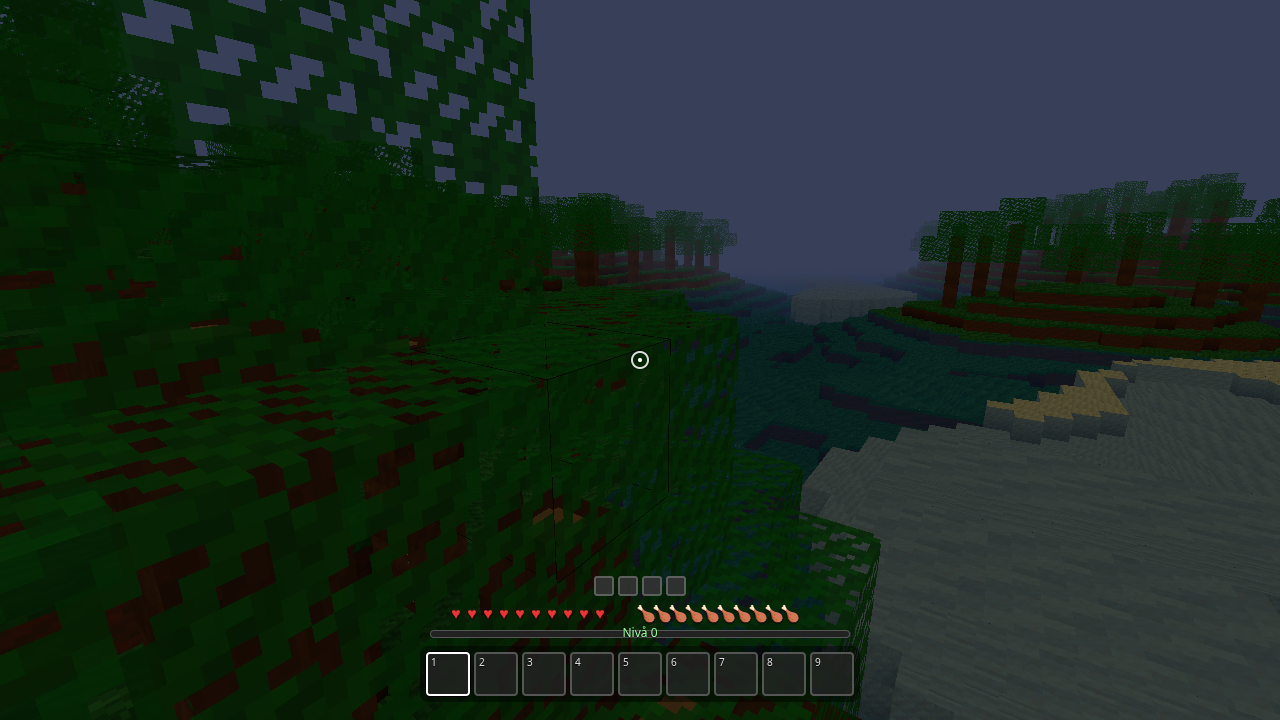
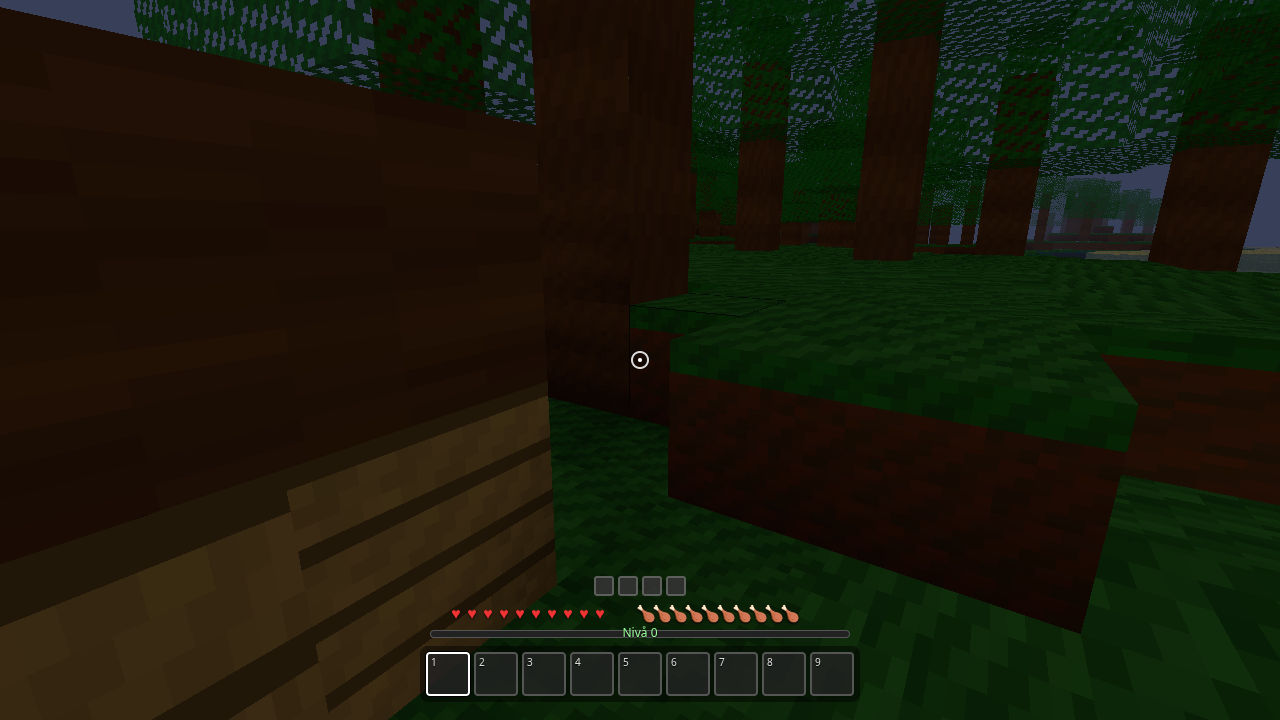
it16: in-block view overlay (MC), S3 suffocation verify, core I2 fixed (wrong mob kind names)

diff --git a/src/main.ts b/src/main.ts
@@ -1,5 +1,6 @@
 import './style.css';
-import { BlockId, isSolid } from './blocks/types';
+import { BlockId, isSolid, BLOCKS } from './blocks/types';
+import { createAtlasCanvas, tileUV, ATLAS_W, ATLAS_H } from './blocks/textures';
 import { Inventory } from './items/inventory';
 import { updateGravityAround } from './world/gravity';
 import { LeafDecay, LEAF_PERSISTENT } from './world/leafdecay';
@@ -202,6 +203,32 @@ async function runGame(
   const doSave = () => saveWorldNamed(worldName, world, player, inv, drops, containers, dayTime, respawn, xp.toJSON(), structuresToJSON());
   const leafDecay = new LeafDecay();
   let suffocateAcc = 0;
+  // MC: with your head inside a block you see that block's texture (darkened), not through the world
+  const inBlockOverlay = document.createElement('div');
+  inBlockOverlay.id = 'in-block-overlay';
+  inBlockOverlay.style.cssText = 'position:fixed;inset:0;pointer-events:none;z-index:5;display:none;image-rendering:pixelated;background-size:25vmin 25vmin;filter:brightness(0.3);';
+  document.body.appendChild(inBlockOverlay);
+  const inBlockUrls = new Map<number, string>();
+  let inBlockAtlas: HTMLCanvasElement | null = null;
+  let inBlockShown = -1;
+  const updateInBlockOverlay = () => {
+    const id = headInSolid(world, player.x, player.y, player.z)
+      ? world.getBlock(Math.floor(player.x), Math.floor(player.y + EYE_HEIGHT), Math.floor(player.z)) : -1;
+    if (id === inBlockShown) return;
+    inBlockShown = id;
+    if (id < 0) { inBlockOverlay.style.display = 'none'; return; }
+    let url = inBlockUrls.get(id);
+    if (!url) {
+      inBlockAtlas ??= createAtlasCanvas();
+      const uv = tileUV(BLOCKS[id]?.tiles.side ?? 0);
+      const c = document.createElement('canvas'); c.width = 16; c.height = 16;
+      c.getContext('2d')!.drawImage(inBlockAtlas, uv.u0 * ATLAS_W, uv.v0 * ATLAS_H, 16, 16, 0, 0, 16, 16);
+      url = c.toDataURL();
+      inBlockUrls.set(id, url);
+    }
+    inBlockOverlay.style.backgroundImage = `url(${url})`;
+    inBlockOverlay.style.display = 'block';
+  };
   const markMesh = () => { meshesDirty = true; renderer.markChunksDirty(); };
   // MC explosions: containers spill, chunks remesh, smoke puff
   mobs.takeContainer = (x, y, z) => { const c = containers.contentsAt(x, y, z); containers.removeAt(x, y, z); return c; };
@@ -1060,6 +1087,7 @@ async function runGame(
         suffocateAcc += dt;
         if (suffocateAcc >= 0.5) { suffocateAcc -= 0.5; hurtPlayer(1, 0, 0, true); }
       } else suffocateAcc = 0;
+      updateInBlockOverlay();
       boats.update(dt, world, player, wishX, wishZ, !!input.forward);
 
       if (player.onGround && (wishX || wishZ) && !boats.mounted) {

diff --git a/scripts/it16-verify.ts b/scripts/it16-verify.ts
@@ -358,6 +358,43 @@ async function main() {
     record('S2-placed-sand-falls', v.at49 === 0 && v.at46 === 8 && v.left === 4 ? 'PASS' : 'FAIL', JSON.stringify(v));
   }
 
+  // S3 — dig the dirt over your head with 2 sand on it (real LMB): sand buries you, you suffocate, dig out (real LMB)
+  if (run('S3')) {
+    mark('S3');
+    await page.evaluate(() => {
+      const bv = (window as any).__bv;
+      bv.world.setBlock(15, 48, 15, 2); bv.world.setBlock(15, 49, 15, 8); bv.world.setBlock(15, 50, 15, 8);
+      bv.player.health = 20; bv.forceRemeshAround?.();
+    });
+    await setHeld(page, 102); // wooden shovel
+    await aim(page, 15.5, 46.05, 15.5, 15.5, 49, 15.5); // look straight up
+    await page.evaluate(() => (window as any).__bv.look((window as any).__bv.player.yaw, 1.5));
+    await sleep(300);
+    for (let t = 0; t < 10 && (await gb(15, 48, 15)) === 2; t++) await hold(page, 300);
+    await sleep(200);
+    const buried = { feet: await gb(15, 46, 15), head: await gb(15, 47, 15), above: await gb(15, 48, 15) };
+    await sleep(1600);
+    await shot(page, 'it16-08-begravd-i-sand.png');
+    const s1 = await st(page);
+    const ovl = () => page.evaluate(() => { const el = document.getElementById('in-block-overlay'); return !!el && getComputedStyle(el).display !== 'none'; });
+    const overlay = await ovl();
+    // dig out: keep looking up and hold LMB (shovel) until the head block is gone
+    for (let t = 0; t < 10 && (await gb(15, 47, 15)) === 8; t++) await hold(page, 300);
+    await sleep(1200);
+    const s2 = await st(page);
+    const hp2 = s2.health;
+    await sleep(1200);
+    const s3 = await st(page);
+    const overlayAfter = await ovl();
+    await page.evaluate(() => (window as any).__bv.look(0, -0.3));
+    await sleep(300);
+    await shot(page, 'it16-09-gravd-ut.png');
+    record('S3-suffocation', buried.feet === 8 && buried.head === 8 && buried.above === 0 && s1.health <= 18 && s1.health > 0 && overlay
+      && Math.abs(s1.y - 46) < 0.1 && (await gb(15, 47, 15)) === 0 && s3.health >= hp2 && s3.y > 46.9 && !overlayAfter ? 'PASS' : 'FAIL',
+      `overlay=${overlay}/${overlayAfter} buried=${JSON.stringify(buried)} hpAfter1.8s=${s1.health} y=${s1.y.toFixed(2)} afterDig y=${s3.y.toFixed(2)} hp=${hp2}->${s3.health}`);
+    await page.evaluate(() => { const bv = (window as any).__bv; bv.player.health = 20; });
+  }
+
   // L — chop a tree with an axe (real LMB): natural leaves decay over ~20 s, a leaf placed by the player stays
   if (run('L')) {
     mark('L');

diff --git a/scripts/core-playtest.ts b/scripts/core-playtest.ts
@@ -825,13 +825,13 @@ async function main() {
   record('I1', Math.abs((await st(page)).dayTime - 0.9) < 0.05 ? 'PASS' : 'FAIL', '');
   await page.evaluate(() => {
     const bv = (window as any).__bv;
-    const kinds = ['zombi', 'skjelett', 'zombie', 'skeleton'];
+    const kinds = ['vandrer', 'bueskytt']; // it16: was 'zombi'/'skjelett' (unknown kinds → spawn threw → I2 only passed if natural mobs happened to exist)
     for (const k of kinds) {
       try { bv.mobs.spawn(k, bv.player.x + 4, bv.player.y, bv.player.z); break; } catch {}
     }
   });
-  const mobs = await page.evaluate(() => (window as any).__bv.getState().mobs);
-  record('I2', mobs > 0 ? 'PASS' : 'PARTIAL', `mobs=${mobs}`);
+  const mobs = await page.evaluate(() => (window as any).__bv.mobs.mobs.filter((m: any) => m.hostile && m.hp > 0).length);
+  record('I2', mobs > 0 ? 'PASS' : 'FAIL', `hostiles=${mobs}`);
   // combat — real LMB clicks (it15: was __bv.mobs.hitAt / hurtMob, i.e. faked)
   const realHit = async (kind: string, maxClicks: number) => {
     await page.evaluate((kind) => { const bv = (window as any).__bv;
